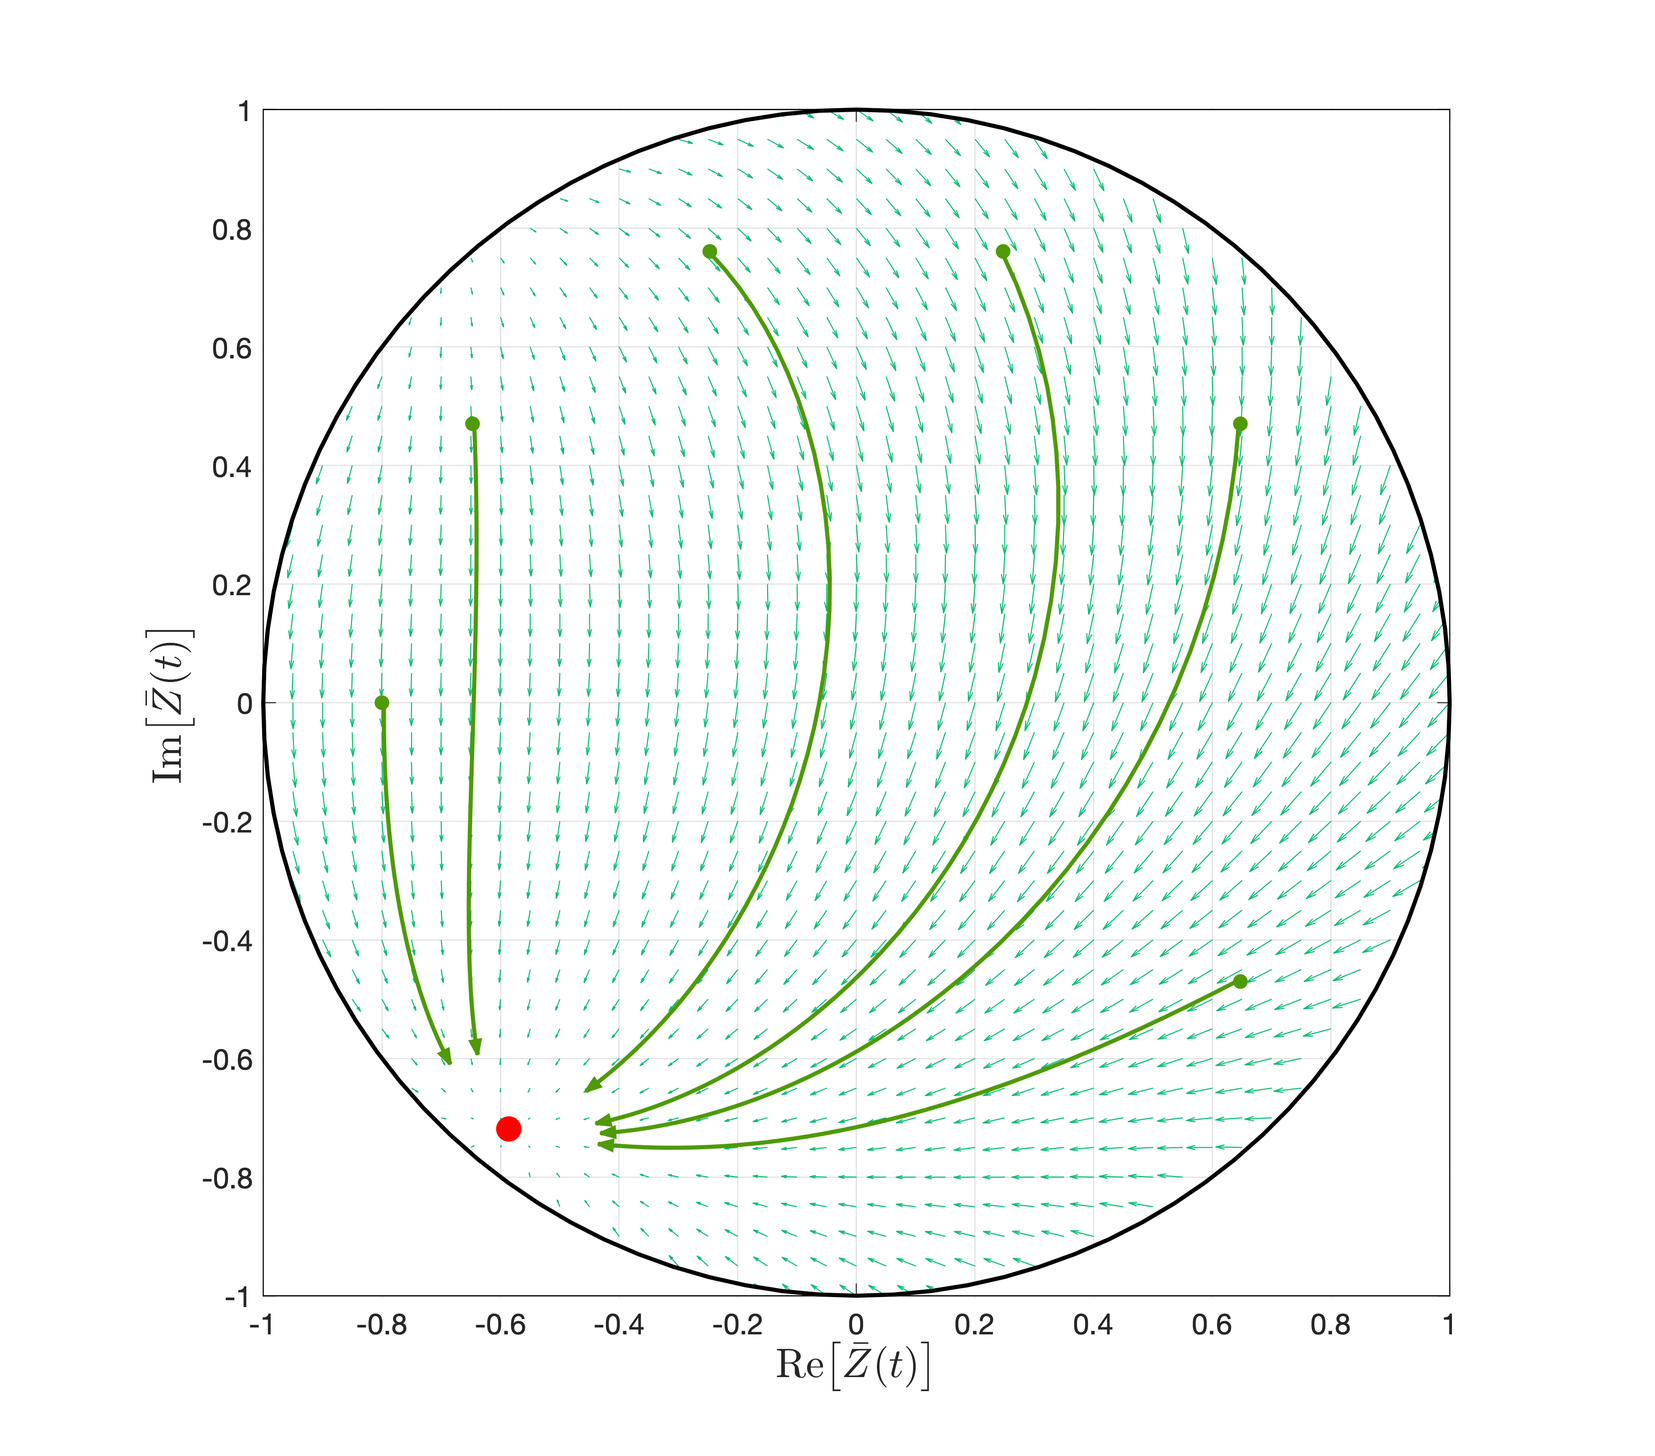
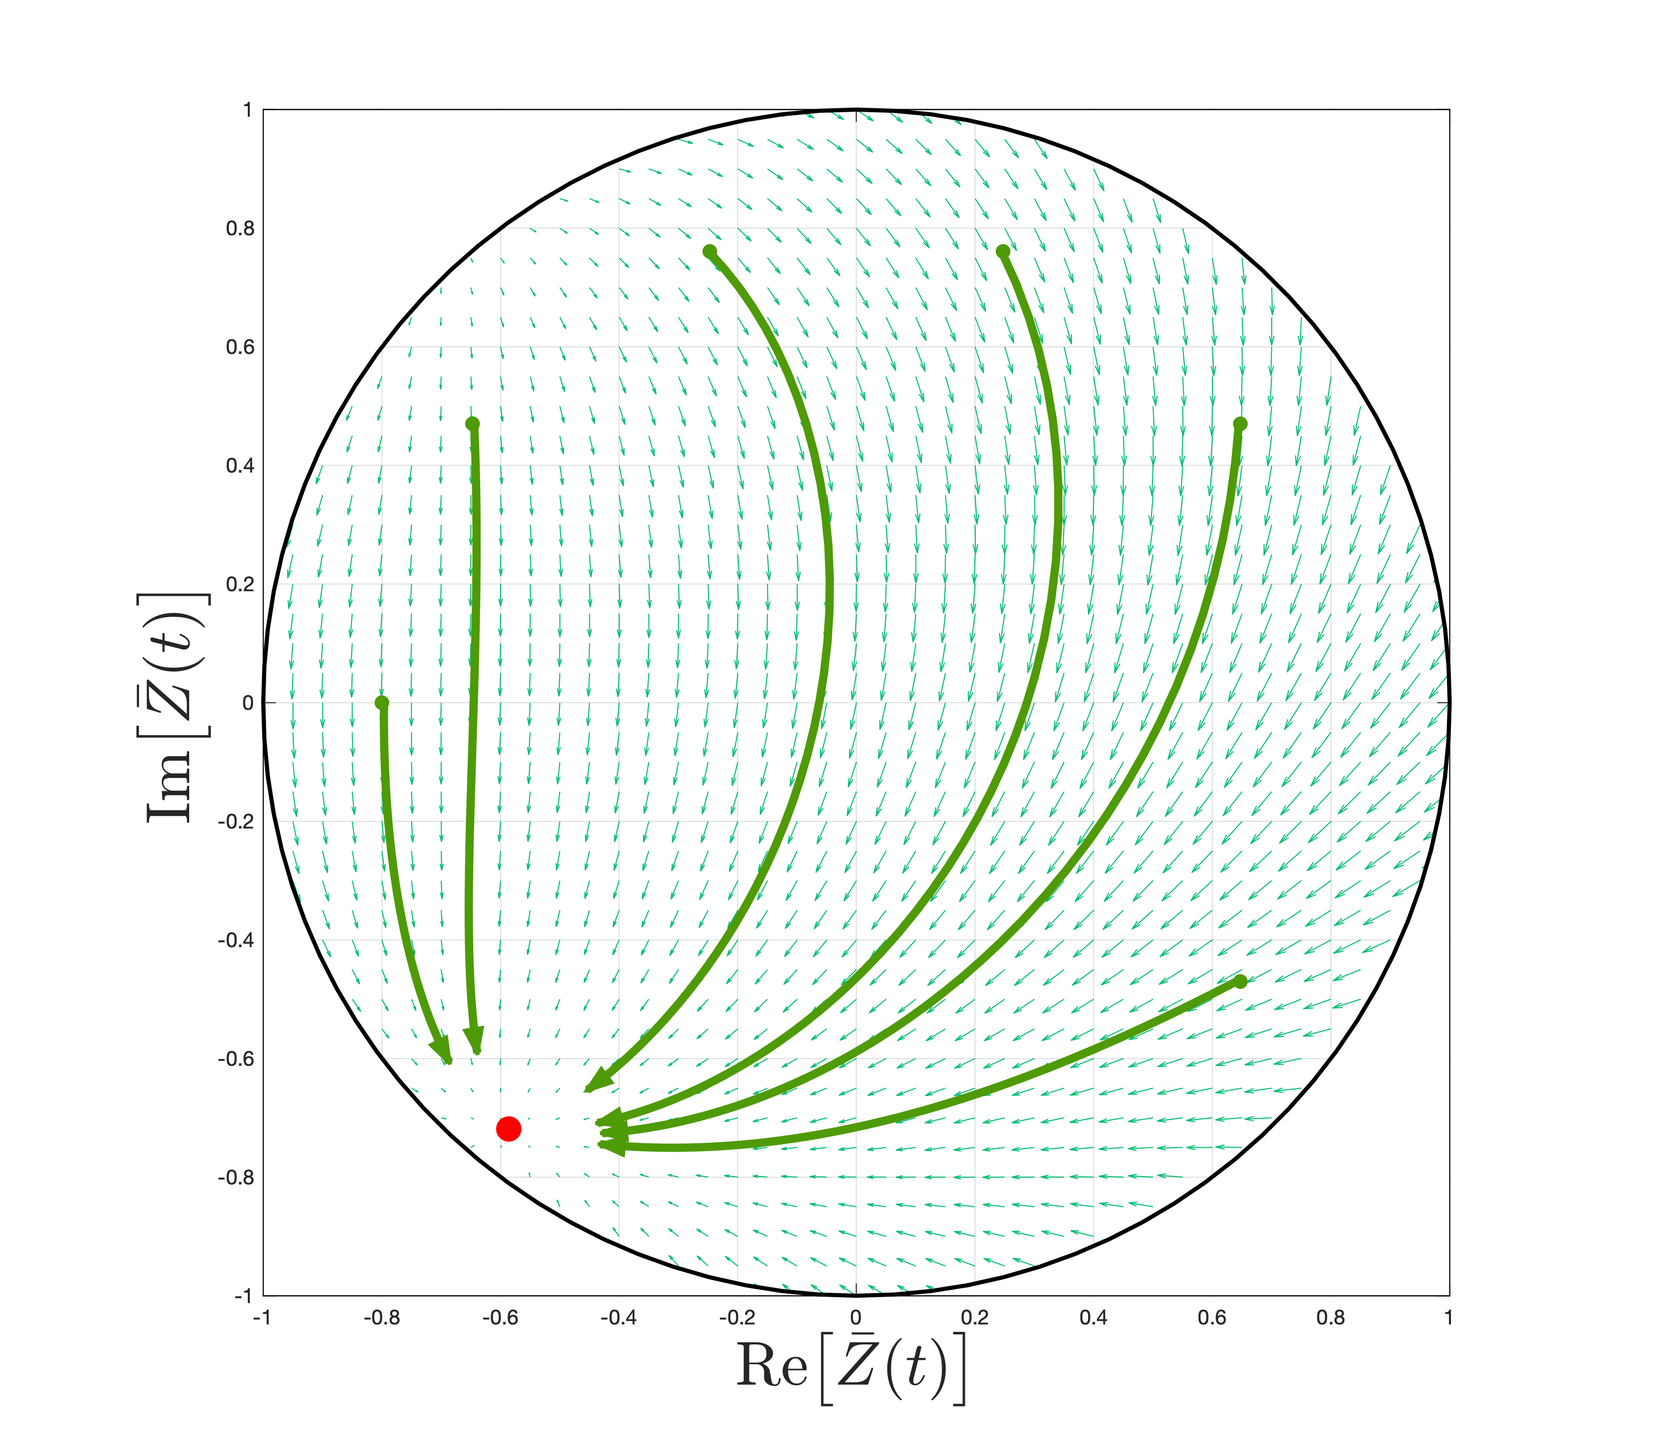
made figures more visible from the pdf

diff --git a/Mean Field Reductions/PhaseSpace.m b/Mean Field Reductions/PhaseSpace.m
@@ -12,7 +12,9 @@ rect = [-50 50 800 800];
 cm = [1,0,0; 0, 0.7410, 0.4470; 0, 0.4470, 0.6410];
 
 titlefont = 15;
-labelfont = 13;
+labelfont = 30;
+linewidth = 4;
+arrowst = 12;
 
 fsolveoptions = optimset('Display','off');
 odeoptions = odeset('RelTol', 1.0e-8,'AbsTol', 1.0e-8);
@@ -69,17 +71,17 @@ quiver(X, Y, real(complex), imag(complex), 'color', cm(2,:))
 complex = MFR(0, X + 1i*Y, pars);
 startx = 0.8*cos( -pi/5:pi/5:pi); starty = 0.8*sin(-pi/5:pi/5:pi);
 startx(2) = []; starty(2) = [];
-scatter(startx, starty, 50, cm(3,:), 'filled', 'o', 'LineWidth',2);
-s = streamline(X, Y, real(complex), imag(complex), startx, starty, [0.05,1000]);
-set(s, 'color', cm(3,:), 'LineWidth', 2);
+scatter(startx, starty, 50, cm(3,:), 'filled', 'o', 'LineWidth', linewidth);
+s = streamline(X, Y, real(complex), imag(complex), startx, starty, [0.05,700]);
+set(s, 'color', cm(3,:), 'LineWidth', linewidth);
 for i = 1:6
     dist = (s(i).XData - eqpt(1)).^2 + (s(i).YData - eqpt(2)).^2 - 0.02;
     dist(end) = -1;
     idx = find(dist < 0, 1, 'first');
     s(i).XData = s(i).XData(1:idx);
     s(i).YData = s(i).YData(1:idx);
-    plot_arrow(s(i).XData(end-8), s(i).YData(end-8), s(i).XData(end), s(i).YData(end),'linewidth', 2, ...
-    'color', cm(3,:),'facecolor', cm(3,:),'edgecolor', cm(3,:), 'headwidth',0.7,'headheight',3);
+    plot_arrow(s(i).XData(end-arrowst), s(i).YData(end-arrowst), s(i).XData(end), s(i).YData(end),'linewidth', 3, ...
+    'color', cm(3,:),'facecolor', cm(3,:),'edgecolor', cm(3,:), 'headwidth',2,'headheight',6);
 end
 
 phasespaceplot();
@@ -90,21 +92,21 @@ index = 1;
 for i = 1:2
     lambda = D(i,i);
     bef = 0.04;
-    endl = 0.075;
+    endl = 0.095;
     draw = 0.75*endl*lambda;
     if lambda < 0
-        plot_arrow(eqpt(1) + endl*V(1,index), eqpt(2) + endl*V(2,index), eqpt(1) + bef*V(1,index), eqpt(2) + bef*V(2,index), 'headwidth',0.7,'headheight',3); 
-        plot_arrow(eqpt(1) - endl*V(1,index), eqpt(2) - endl*V(2,index), eqpt(1) - bef*V(1,index), eqpt(2) - bef*V(2,index), 'headwidth',0.7,'headheight',3); 
-        plot([eqpt(1) - draw*V(1,index), eqpt(1) + draw*V(1,index)], [eqpt(2) - draw*V(2,index), eqpt(2) + draw*V(2,index)], 'k', 'LineWidth', 2);
+        plot_arrow(eqpt(1) + endl*V(1,index), eqpt(2) + endl*V(2,index), eqpt(1) + bef*V(1,index), eqpt(2) + bef*V(2,index), 'headwidth',0.9,'headheight',6); 
+        plot_arrow(eqpt(1) - endl*V(1,index), eqpt(2) - endl*V(2,index), eqpt(1) - bef*V(1,index), eqpt(2) - bef*V(2,index), 'headwidth',0.9,'headheight',6); 
+        plot([eqpt(1) - draw*V(1,index), eqpt(1) + draw*V(1,index)], [eqpt(2) - draw*V(2,index), eqpt(2) + draw*V(2,index)], 'k', 'LineWidth', linewidth);
     end
     index = index + 1;
 end
 scatter(eqpt(1), eqpt(2), 150, 'or', 'filled')
 
 % End figure:
-set(gcf,'color','w'); set(gca,'FontSize',14); xlim([-1,1]); ylim([-1,1]);
-xlabel('Re$\left[ \bar{Z}(t)\right]$','Interpreter','latex', 'FontSize', 20)
-ylabel('Im$\left[ \bar{Z}(t)\right]$','Interpreter','latex', 'FontSize', 20)
+set(gcf,'color','w'); xlim([-1,1]); ylim([-1,1]);
+xlabel('Re$\left[ \bar{Z}(t)\right]$','Interpreter','latex', 'FontSize', labelfont)
+ylabel('Im$\left[ \bar{Z}(t)\right]$','Interpreter','latex', 'FontSize', labelfont)
 print(f_MFRPSR, '../Figures/MFRPSR.png', '-dpng', '-r300')
 close(f_MFRPSR)
 
@@ -125,10 +127,10 @@ quiver(X, Y, real(complex), imag(complex), 'color', cm(2,:))
 % Lines:
 complex = MFR(0, X + 1i*Y, pars);
 startx = 1; starty = 0;
-scatter(startx, starty, 50, cm(3,:), 'filled', 'o', 'LineWidth',2);% 'color', cm(3,:));
+scatter(startx, starty, 50, cm(3,:), 'filled', 'o', 'LineWidth', linewidth);% 'color', cm(3,:));
 s = streamline(X, Y, real(complex), imag(complex), startx, starty, [0.05,1550]);
-set(s, 'color', cm(3,:), 'LineWidth', 2);
-plot_arrow(s.XData(end-8), s.YData(end-8), s.XData(end), s.YData(end),'linewidth', 2, ...
+set(s, 'color', cm(3,:), 'LineWidth', linewidth);
+plot_arrow(s.XData(end-arrowst), s.YData(end-arrowst), s.XData(end), s.YData(end),'linewidth', 2, ...
     'color', cm(3,:),'facecolor', cm(3,:),'edgecolor', cm(3,:), 'headwidth',0.7,'headheight',3);
 
 phasespaceplot();
@@ -138,9 +140,9 @@ phasespaceplot();
 scatter(eqpt(1), eqpt(2), 150, 'or', 'filled')
 
 % End figure:
-hold off; set(gcf,'color','w'); set(gca,'FontSize',14); xlim([-1,1]); ylim([-1,1]); axis square;
-xlabel('Re$\left[ \bar{Z}(t)\right]$','Interpreter','latex', 'FontSize', 20)
-ylabel('Im$\left[ \bar{Z}(t)\right]$','Interpreter','latex', 'FontSize', 20)
+hold off; set(gcf,'color','w'); xlim([-1,1]); ylim([-1,1]); axis square;
+xlabel('Re$\left[ \bar{Z}(t)\right]$','Interpreter','latex', 'FontSize', labelfont)
+ylabel('Im$\left[ \bar{Z}(t)\right]$','Interpreter','latex', 'FontSize', labelfont)
 print(f_MFRPSS, '../Figures/MFRPSS.png', '-dpng', '-r300')
 close(f_MFRPSS)
 
@@ -162,9 +164,9 @@ quiver(X, Y, real(complex), imag(complex), 'color', cm(2,:))
 % Lines:
 complex = MFR(0, X + 1i*Y, pars);
 startx = [0, 0, -0.6, -0.8]; starty = [-1, -0.8, 0.4, 0.2];
-scatter(startx, starty, 50, cm(3,:), 'filled', 'o', 'LineWidth',2);
+scatter(startx, starty, 50, cm(3,:), 'filled', 'o', 'LineWidth', linewidth);
 s = streamline(X, Y, real(complex), imag(complex), startx, starty, [0.01,9000]);
-set(s, 'color', cm(3,:), 'LineWidth', 2);
+set(s, 'color', cm(3,:), 'LineWidth', linewidth);
 
 % Streamlines yield inexact results?
 for i = 1:4
@@ -173,7 +175,7 @@ for i = 1:4
     idx = find(dist < 0, 1, 'first');
     s(i).XData = s(i).XData(1:idx);
     s(i).YData = s(i).YData(1:idx);
-    plot_arrow(s(i).XData(end-40), s(i).YData(end-40), s(i).XData(end), s(i).YData(end),'linewidth', 2, ...
+    plot_arrow(s(i).XData(end-5*arrowst), s(i).YData(end-5*arrowst), s(i).XData(end), s(i).YData(end),'linewidth', 2, ...
     'color', cm(3,:),'facecolor', cm(3,:),'edgecolor', cm(3,:), 'headwidth',0.7,'headheight',3);     
 end
 
@@ -183,7 +185,7 @@ Z0 = -0.2731 - 0.0092*1i;
 Z = flip(Z(round(numel(T)*0.97):end,:));
 [~, pksloc] = findpeaks(abs(Z),'MinPeakDistance',100);
 idx = pksloc(1):pksloc(3);
-plot(real(Z(idx)), imag(Z(idx)), '-', 'LineWidth', 2, 'Color', cm(3,:));
+plot(real(Z(idx)), imag(Z(idx)), '-', 'LineWidth', linewidth, 'Color', cm(3,:));
 plot_arrow(real(Z(end)), imag(Z(end)), real(Z(end-2)), imag(Z(end-2)),'linewidth', 2, ...
     'color', cm(3,:),'facecolor', cm(3,:),'edgecolor', cm(3,:), 'headwidth',0.4,'headheight',1);
 
@@ -198,16 +200,16 @@ for eqpointindex = 1:2
     for i = 1:2
         lambda = D(i,i);
         bef = 0.04;
-        endl = 0.075;
+        endl = 0.095;
         draw = 0.5*endl*lambda;
         if lambda < 0
             plot_arrow(eqpt(1) + endl*V(1,index), eqpt(2) + endl*V(2,index), eqpt(1) + bef*V(1,index), eqpt(2) + bef*V(2,index), 'headwidth',0.7,'headheight',3);
             plot_arrow(eqpt(1) - endl*V(1,index), eqpt(2) - endl*V(2,index), eqpt(1) - bef*V(1,index), eqpt(2) - bef*V(2,index), 'headwidth',0.7,'headheight',3);
-            plot([eqpt(1) - draw*V(1,index), eqpt(1) + draw*V(1,index)], [eqpt(2) - draw*V(2,index), eqpt(2) + draw*V(2,index)], 'k', 'LineWidth', 2);
+            plot([eqpt(1) - draw*V(1,index), eqpt(1) + draw*V(1,index)], [eqpt(2) - draw*V(2,index), eqpt(2) + draw*V(2,index)], 'k', 'LineWidth', linewidth);
         else
             plot_arrow(eqpt(1) + endl*V(1,index), eqpt(2) + endl*V(2,index),eqpt(1) + draw*V(1,index), eqpt(2) + draw*V(2,index),'headwidth',0.7,'headheight',3);
             plot_arrow(eqpt(1) - endl*V(1,index), eqpt(2) - endl*V(2,index),eqpt(1) - draw*V(1,index), eqpt(2) - draw*V(2,index),'headwidth',0.7,'headheight',3);
-            plot([eqpt(1) - draw*V(1,index), eqpt(1) + draw*V(1,index)], [eqpt(2) - draw*V(2,index), eqpt(2) + draw*V(2,index)], 'k', 'LineWidth', 2);
+            plot([eqpt(1) - draw*V(1,index), eqpt(1) + draw*V(1,index)], [eqpt(2) - draw*V(2,index), eqpt(2) + draw*V(2,index)], 'k', 'LineWidth', linewidth);
         end
         index = index + 1;
     end
@@ -219,14 +221,14 @@ end
 t = linspace(0, 2*pi + 0.3, 100);
 radius = t/max(t)/10;
 curve = [eqpt(1) + radius.*cos(t); eqpt(2) + radius.*sin(t)];
-plot(curve(1,:), curve(2,:), 'k', 'LineWidth', 2)
+plot(curve(1,:), curve(2,:), 'k', 'LineWidth', linewidth)
 scatter(eqpt(1), eqpt(2), 150, 'or', 'filled')
-plot_arrow(curve(1,end-6), curve(2,end-6), curve(1,end), curve(2,end), 'headwidth',0.6,'headheight',1.5);
+plot_arrow(curve(1,end-6), curve(2,end-6), curve(1,end), curve(2,end), 'headwidth',1,'headheight',1.5);
 
 % End figure:
-hold off; set(gcf,'color','w'); set(gca,'FontSize',14); xlim([-1,1]); ylim([-1,1]); axis square;
-xlabel('Re$\left[ \bar{Z}(t)\right]$','Interpreter','latex', 'FontSize', 20)
-ylabel('Im$\left[ \bar{Z}(t)\right]$','Interpreter','latex', 'FontSize', 20)
+hold off; set(gcf,'color','w'); xlim([-1,1]); ylim([-1,1]); axis square;
+xlabel('Re$\left[ \bar{Z}(t)\right]$','Interpreter','latex', 'FontSize', labelfont)
+ylabel('Im$\left[ \bar{Z}(t)\right]$','Interpreter','latex', 'FontSize', labelfont)
 print(f_MFRCPW, '../Figures/MFRCPW.png', '-dpng', '-r300')
 close(f_MFRCPW)
 
@@ -251,11 +253,11 @@ for i = 1:length(startx)
     OAIC = ones(p.Mk,1)*(startx(i) + starty(i)*1i);
     [~, ZOA] = OA_simulatenetwork(0, tlengths(i), OAIC, p, odeoptions);
 
-    scatter(startx(i), starty(i), 50, col, 'filled', 'o', 'LineWidth',2);% 'color', col);
+    scatter(startx(i), starty(i), 50, col, 'filled', 'o', 'LineWidth', linewidth);% 'color', col);
 
-    Zplot = plot(real(ZOA), imag(ZOA), 'LineWidth', 2, 'color', col);
+    Zplot = plot(real(ZOA), imag(ZOA), 'LineWidth', linewidth, 'color', col);
     endline = ZOA(end-3) - ZOA(end);
-    endpoint = ZOA(end) + 0.02*endline/abs(endline);
+    endpoint = ZOA(end) + 0.04*endline/abs(endline);
     plot_arrow(real(endpoint), imag(endpoint), real(ZOA(end)), imag(ZOA(end)),'linewidth', 2, ...
     'color', col,'facecolor', col,'edgecolor', col, 'headwidth',0.7,'headheight',3);   
 end
@@ -270,9 +272,9 @@ J = MFROAJ(eqptb, p);
 phasespaceplot();
 
 % End figure:
-hold off; set(gcf,'color','w'); set(gca,'FontSize',14); xlim([-1,1]); ylim([-1,1]); axis square;
-xlabel('Re$\left[ \bar{Z}(t)\right]$','Interpreter','latex', 'FontSize', 20)
-ylabel('Im$\left[ \bar{Z}(t)\right]$','Interpreter','latex', 'FontSize', 20)
+hold off; set(gcf,'color','w'); xlim([-1,1]); ylim([-1,1]); axis square;
+xlabel('Re$\left[ \bar{Z}(t)\right]$','Interpreter','latex', 'FontSize', labelfont)
+ylabel('Im$\left[ \bar{Z}(t)\right]$','Interpreter','latex', 'FontSize', labelfont)
 print(f_OARPSR, '../Figures/MFOARPSR_random.png', '-dpng', '-r300')
 close(f_OARPSR)
 
@@ -291,10 +293,10 @@ startx = 1; starty = 0; tlength = 3.4;
 odeoptions = odeset('RelTol', 1.0e-12); odeoptions.backwards = true;
 
 [~, ZOA] = OA_simulatenetwork(0, tlength, ones(p.Mk,1)*(startx + starty*1i), p, odeoptions);
-scatter(startx, starty, 50, col, 'filled', 'o', 'LineWidth',2);% 'color', col);
-Zplot = plot(real(ZOA), imag(ZOA), 'LineWidth', 2, 'color', col);
+scatter(startx, starty, 50, col, 'filled', 'o', 'LineWidth', linewidth);% 'color', col);
+Zplot = plot(real(ZOA), imag(ZOA), 'LineWidth', linewidth, 'color', col);
 endline = ZOA(end-3) - ZOA(end);
-endpoint = ZOA(end) + 0.02*endline/abs(endline);
+endpoint = ZOA(end) + 0.04*endline/abs(endline);
 plot_arrow(real(endpoint), imag(endpoint), real(ZOA(end)), imag(ZOA(end)),'linewidth', 2, ...
 'color', col,'facecolor', col,'edgecolor', col, 'headwidth',0.7,'headheight',3); 
 
@@ -306,9 +308,9 @@ eqptZ = eqptb'*p.P(p.k)/p.N;
 scatter(real(eqptZ), imag(eqptZ), 150, 'or', 'filled')
 
 % End figure:
-hold off; set(gcf,'color','w'); set(gca,'FontSize',14); xlim([-1,1]); ylim([-1,1]); axis square;
-xlabel('Re$\left[ \bar{Z}(t)\right]$','Interpreter','latex', 'FontSize', 20)
-ylabel('Im$\left[ \bar{Z}(t)\right]$','Interpreter','latex', 'FontSize', 20)
+hold off; set(gcf,'color','w'); xlim([-1,1]); ylim([-1,1]); axis square;
+xlabel('Re$\left[ \bar{Z}(t)\right]$','Interpreter','latex', 'FontSize', labelfont)
+ylabel('Im$\left[ \bar{Z}(t)\right]$','Interpreter','latex', 'FontSize', labelfont)
 print(f_OARPSS, '../Figures/MFOARPSS_random.png', '-dpng', '-r300')
 close(f_OARPSS)
 
@@ -339,22 +341,22 @@ for i = 1:length(startx)-1
     OAIC = ones(p.Mk,1)*(startx(i) + starty(i)*1i);
     [~, ZOA] = OA_simulatenetwork(0, tlengths(i), OAIC, p);
 
-    scatter(startx(i), starty(i), 50, col, 'filled', 'o', 'LineWidth',2);% 'color', col);
+    scatter(startx(i), starty(i), 50, col, 'filled', 'o', 'LineWidth', linewidth);% 'color', col);
 
-    plot(real(ZOA), imag(ZOA), 'LineWidth', 2, 'color', col);
+    plot(real(ZOA), imag(ZOA), 'LineWidth', linewidth, 'color', col);
     endline = ZOA(end-3) - ZOA(end);
-    endpoint = ZOA(end) + 0.02*endline/abs(endline);
+    endpoint = ZOA(end) + 0.04*endline/abs(endline);
     plot_arrow(real(endpoint), imag(endpoint), real(ZOA(end)), imag(ZOA(end)),'linewidth', 2, ...
     'color', col,'facecolor', col,'edgecolor', col, 'headwidth',0.7,'headheight',3);   
 end
 
 % Limit cycle:
 [T, ZOA] = OA_simulatenetwork(0, 100, ones(p.Mk,1)*(-0.73*1i), p);
-% plot(real(ZOA), imag(ZOA), 'LineWidth', 2, 'color', col);
+% plot(real(ZOA), imag(ZOA), 'LineWidth', linewidth, 'color', col);
 ZOA = flip(ZOA(round(numel(T)*0.9):end,:));
 [~, pksloc] = findpeaks(abs(ZOA),'MinPeakDistance',100);
 idx = pksloc(1):pksloc(3);
-plot(real(ZOA(idx)), imag(ZOA(idx)), '-', 'LineWidth', 2, 'Color', col);
+plot(real(ZOA(idx)), imag(ZOA(idx)), '-', 'LineWidth', linewidth, 'Color', col);
 plot_arrow(real(ZOA(end)), imag(ZOA(end)), real(ZOA(end-2)), imag(ZOA(end-2)),'linewidth', 2, ...
     'color', col,'facecolor', col,'edgecolor', col, 'headwidth',0.7,'headheight',3);
 
@@ -366,11 +368,11 @@ eqptZ = eqptb'*p.P(p.k)/p.N;
 scatter(real(eqptZ), imag(eqptZ), 150, 'or', 'filled')
 
 % End figure:
-hold off; set(gcf,'color','w'); set(gca,'FontSize',14); xlim([-1,1]); ylim([-1,1]); axis square;
-xlabel('Re$\left[ \bar{Z}(t)\right]$','Interpreter','latex', 'FontSize', 20)
-ylabel('Im$\left[ \bar{Z}(t)\right]$','Interpreter','latex', 'FontSize', 20)
-% print(f_OARCPW, '../Figures/MFOARCPW_random.png', '-dpng', '-r300')
-% close(f_OARCPW)
+hold off; set(gcf,'color','w'); xlim([-1,1]); ylim([-1,1]); axis square;
+xlabel('Re$\left[ \bar{Z}(t)\right]$','Interpreter','latex', 'FontSize', labelfont)
+ylabel('Im$\left[ \bar{Z}(t)\right]$','Interpreter','latex', 'FontSize', labelfont)
+print(f_OARCPW, '../Figures/MFOARCPW_random.png', '-dpng', '-r300')
+close(f_OARCPW)
 
 
 %% 7. OA scalefree phase space: PSR
@@ -393,11 +395,11 @@ for i = 1:length(startx)
     OAIC = ones(p.Mk,1)*(startx(i) + starty(i)*1i);
     [~, ZOA] = OA_simulatenetwork(0, tlengths(i), OAIC, p, odeoptions);
 
-    scatter(startx(i), starty(i), 50, col, 'filled', 'o', 'LineWidth',2);% 'color', col);
+    scatter(startx(i), starty(i), 50, col, 'filled', 'o', 'LineWidth', linewidth);% 'color', col);
 
-    Zplot = plot(real(ZOA), imag(ZOA), 'LineWidth', 2, 'color', col);
+    Zplot = plot(real(ZOA), imag(ZOA), 'LineWidth', linewidth, 'color', col);
     endline = ZOA(end-3) - ZOA(end);
-    endpoint = ZOA(end) + 0.02*endline/abs(endline);
+    endpoint = ZOA(end) + 0.04*endline/abs(endline);
     plot_arrow(real(endpoint), imag(endpoint), real(ZOA(end)), imag(ZOA(end)),'linewidth', 2, ...
     'color', col,'facecolor', col,'edgecolor', col, 'headwidth',0.7,'headheight',3);   
 end
@@ -412,9 +414,9 @@ J = MFROAJ(eqptb, p);
 phasespaceplot();
 
 % End figure:
-hold off; set(gcf,'color','w'); set(gca,'FontSize',14); xlim([-1,1]); ylim([-1,1]); axis square;
-xlabel('Re$\left[ \bar{Z}(t)\right]$','Interpreter','latex', 'FontSize', 20)
-ylabel('Im$\left[ \bar{Z}(t)\right]$','Interpreter','latex', 'FontSize', 20)
+hold off; set(gcf,'color','w'); xlim([-1,1]); ylim([-1,1]); axis square;
+xlabel('Re$\left[ \bar{Z}(t)\right]$','Interpreter','latex', 'FontSize', labelfont)
+ylabel('Im$\left[ \bar{Z}(t)\right]$','Interpreter','latex', 'FontSize', labelfont)
 print(f_OARPSR, '../Figures/MFOARPSR_scalefree.png', '-dpng', '-r300')
 close(f_OARPSR)
 
@@ -433,10 +435,10 @@ startx = 1; starty = 0; tlength = 3.4;
 odeoptions = odeset('RelTol', 1.0e-12); odeoptions.backwards = true;
 
 [~, ZOA] = OA_simulatenetwork(0, tlength, ones(p.Mk,1)*(startx + starty*1i), p, odeoptions);
-scatter(startx, starty, 50, col, 'filled', 'o', 'LineWidth',2);% 'color', col);
-Zplot = plot(real(ZOA), imag(ZOA), 'LineWidth', 2, 'color', col);
+scatter(startx, starty, 50, col, 'filled', 'o', 'LineWidth', linewidth);% 'color', col);
+Zplot = plot(real(ZOA), imag(ZOA), 'LineWidth', linewidth, 'color', col);
 endline = ZOA(end-3) - ZOA(end);
-endpoint = ZOA(end) + 0.02*endline/abs(endline);
+endpoint = ZOA(end) + 0.04*endline/abs(endline);
 plot_arrow(real(endpoint), imag(endpoint), real(ZOA(end)), imag(ZOA(end)),'linewidth', 2, ...
 'color', col,'facecolor', col,'edgecolor', col, 'headwidth',0.7,'headheight',3); 
 
@@ -448,9 +450,9 @@ eqptZ = eqptb'*p.P(p.k)/p.N;
 scatter(real(eqptZ), imag(eqptZ), 150, 'or', 'filled')
 
 % End figure:
-hold off; set(gcf,'color','w'); set(gca,'FontSize',14); xlim([-1,1]); ylim([-1,1]); axis square;
-xlabel('Re$\left[ \bar{Z}(t)\right]$','Interpreter','latex', 'FontSize', 20)
-ylabel('Im$\left[ \bar{Z}(t)\right]$','Interpreter','latex', 'FontSize', 20)
+hold off; set(gcf,'color','w'); xlim([-1,1]); ylim([-1,1]); axis square;
+xlabel('Re$\left[ \bar{Z}(t)\right]$','Interpreter','latex', 'FontSize', labelfont)
+ylabel('Im$\left[ \bar{Z}(t)\right]$','Interpreter','latex', 'FontSize', labelfont)
 print(f_OARPSS, '../Figures/MFOARPSS_scalefree.png', '-dpng', '-r300')
 close(f_OARPSS)
 
@@ -475,23 +477,23 @@ for i = 1:length(startx)
     OAIC = ones(p.Mk,1)*(startx(i) + starty(i)*1i);
     [~, ZOA] = OA_simulatenetwork(0, tlengths(i), OAIC, p, odeoptions);
     
-    scatter(startx(i), starty(i), 50, col, 'filled', 'o', 'LineWidth',2);% 'color', col);
+    scatter(startx(i), starty(i), 50, col, 'filled', 'o', 'LineWidth', linewidth);% 'color', col);
 
-    Zplot = plot(real(ZOA), imag(ZOA), 'LineWidth', 2, 'color', col);
+    Zplot = plot(real(ZOA), imag(ZOA), 'LineWidth', linewidth, 'color', col);
     endline = ZOA(end-3) - ZOA(end);
-    endpoint = ZOA(end) + 0.02*endline/abs(endline);
+    endpoint = ZOA(end) + 0.04*endline/abs(endline);
     plot_arrow(real(endpoint), imag(endpoint), real(ZOA(end)), imag(ZOA(end)),'linewidth', 2, ...
     'color', col,'facecolor', col,'edgecolor', col, 'headwidth',0.7,'headheight',3);   
 end
 
 % Limit cycle:
 [T, ZOA] = OA_simulatenetwork(0, 100, ones(p.Mk,1)*(-0.2*1i), p, odeoptions);
-% Zplot = plot(real(ZOA), imag(ZOA), 'LineWidth', 2, 'color', col);
+% Zplot = plot(real(ZOA), imag(ZOA), 'LineWidth', linewidth, 'color', col);
 ZOA = flip(ZOA(round(numel(T)*0.9):end,:));
 [~, pksloc] = findpeaks(abs(ZOA),'MinPeakDistance',100);
 idx = pksloc(1):pksloc(3);
-plot(real(ZOA(idx)), imag(ZOA(idx)), '-', 'LineWidth', 2, 'Color', col);
-plot_arrow(real(ZOA(end)), imag(ZOA(end)), real(ZOA(end-2)), imag(ZOA(end-2)),'linewidth', 2, ...
+plot(real(ZOA(idx)), imag(ZOA(idx)), '-', 'LineWidth', linewidth, 'Color', col);
+plot_arrow(real(ZOA(end)), imag(ZOA(end)), real(ZOA(end-3)), imag(ZOA(end-3)),'linewidth', 2, ...
     'color', col,'facecolor', col,'edgecolor', col, 'headwidth',0.7,'headheight',3);
 
 phasespaceplot();
@@ -502,9 +504,9 @@ eqptZ = eqptb'*p.P(p.k)/p.N;
 scatter(real(eqptZ), imag(eqptZ), 150, 'or', 'filled')
 
 % End figure:
-hold off; set(gcf,'color','w'); set(gca,'FontSize',14); xlim([-1,1]); ylim([-1,1]); axis square;
-xlabel('Re$\left[ \bar{Z}(t)\right]$','Interpreter','latex', 'FontSize', 20)
-ylabel('Im$\left[ \bar{Z}(t)\right]$','Interpreter','latex', 'FontSize', 20)
+hold off; set(gcf,'color','w'); xlim([-1,1]); ylim([-1,1]); axis square;
+xlabel('Re$\left[ \bar{Z}(t)\right]$','Interpreter','latex', 'FontSize', labelfont)
+ylabel('Im$\left[ \bar{Z}(t)\right]$','Interpreter','latex', 'FontSize', labelfont)
 print(f_OARCPW, '../Figures/MFOARCPW_scalefree.png', '-dpng', '-r300')
 close(f_OARCPW)
 
